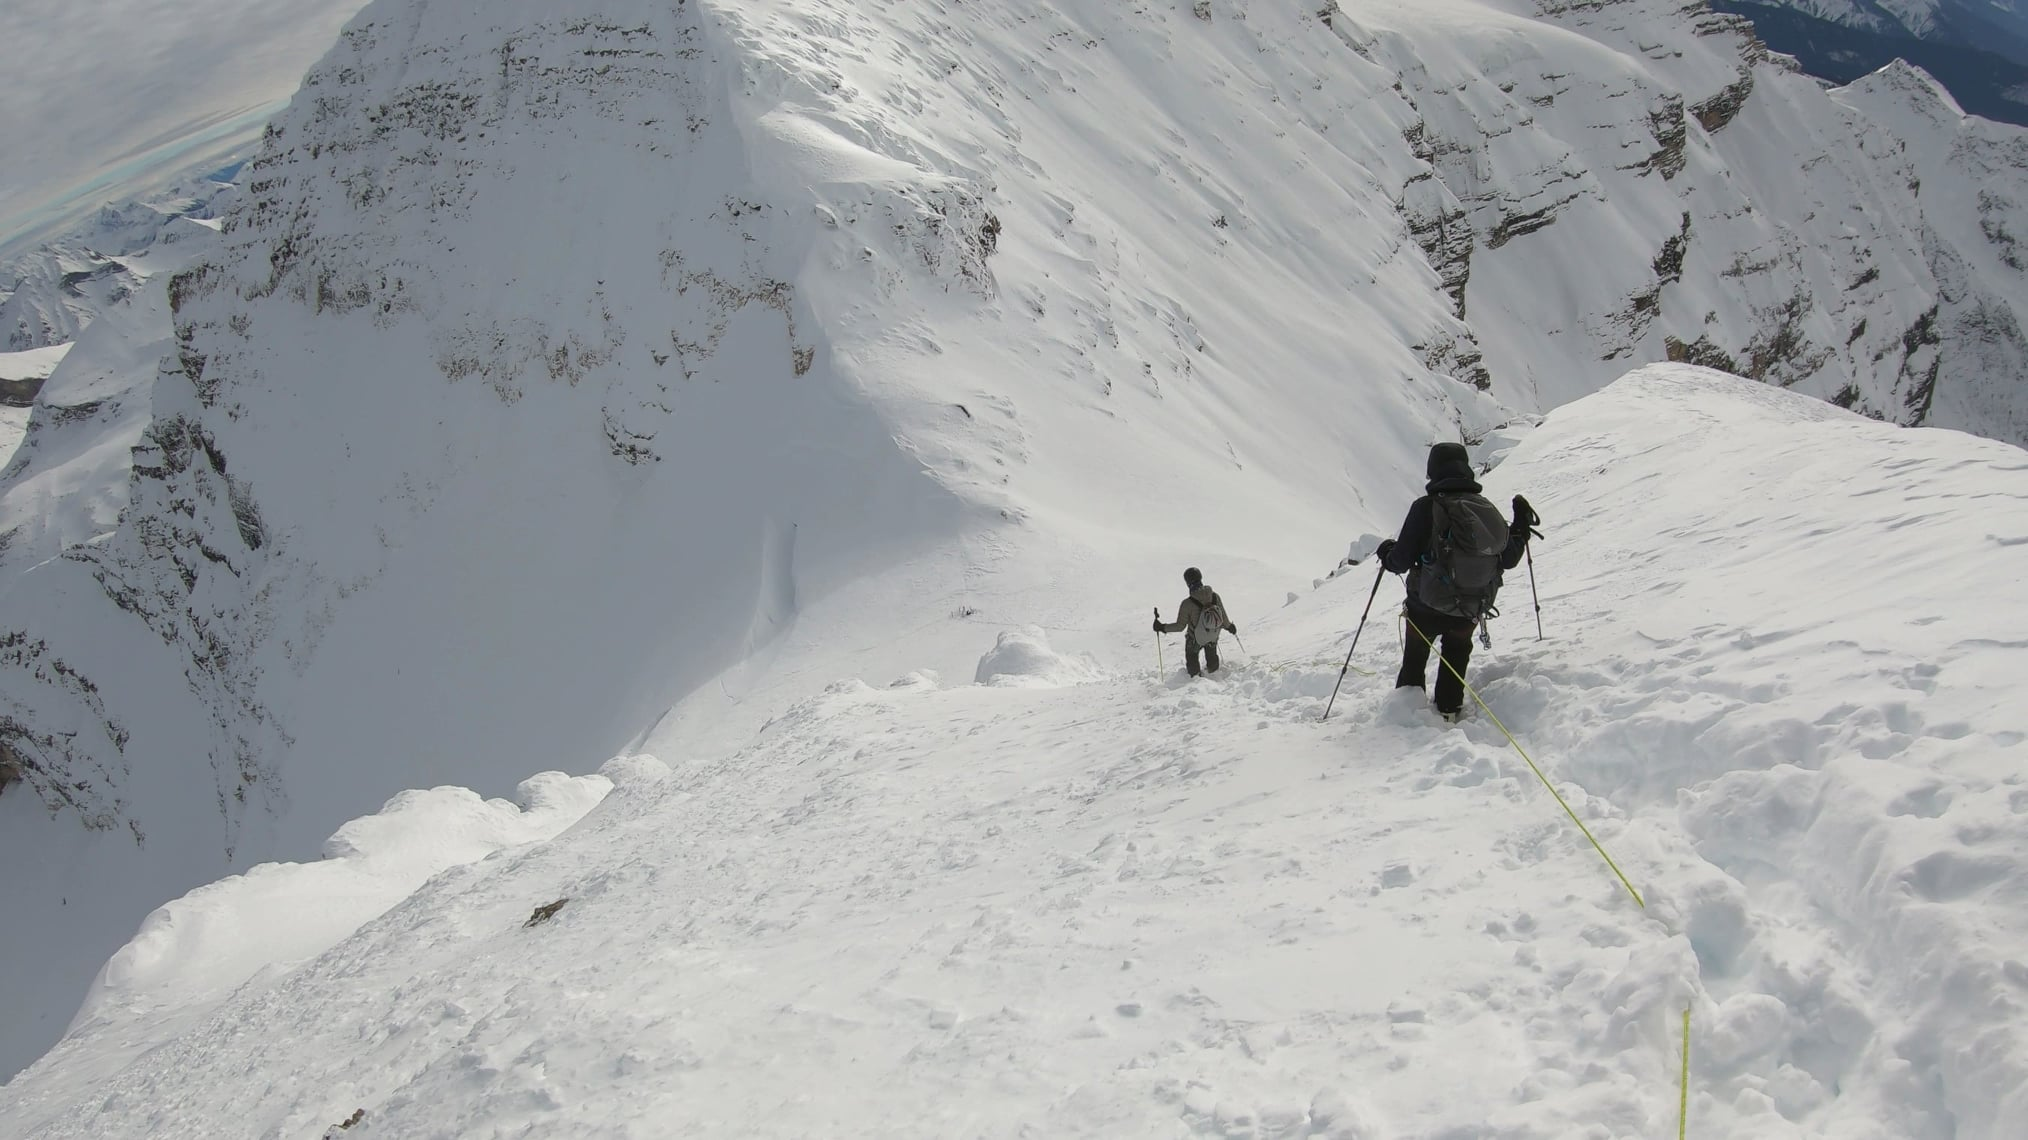
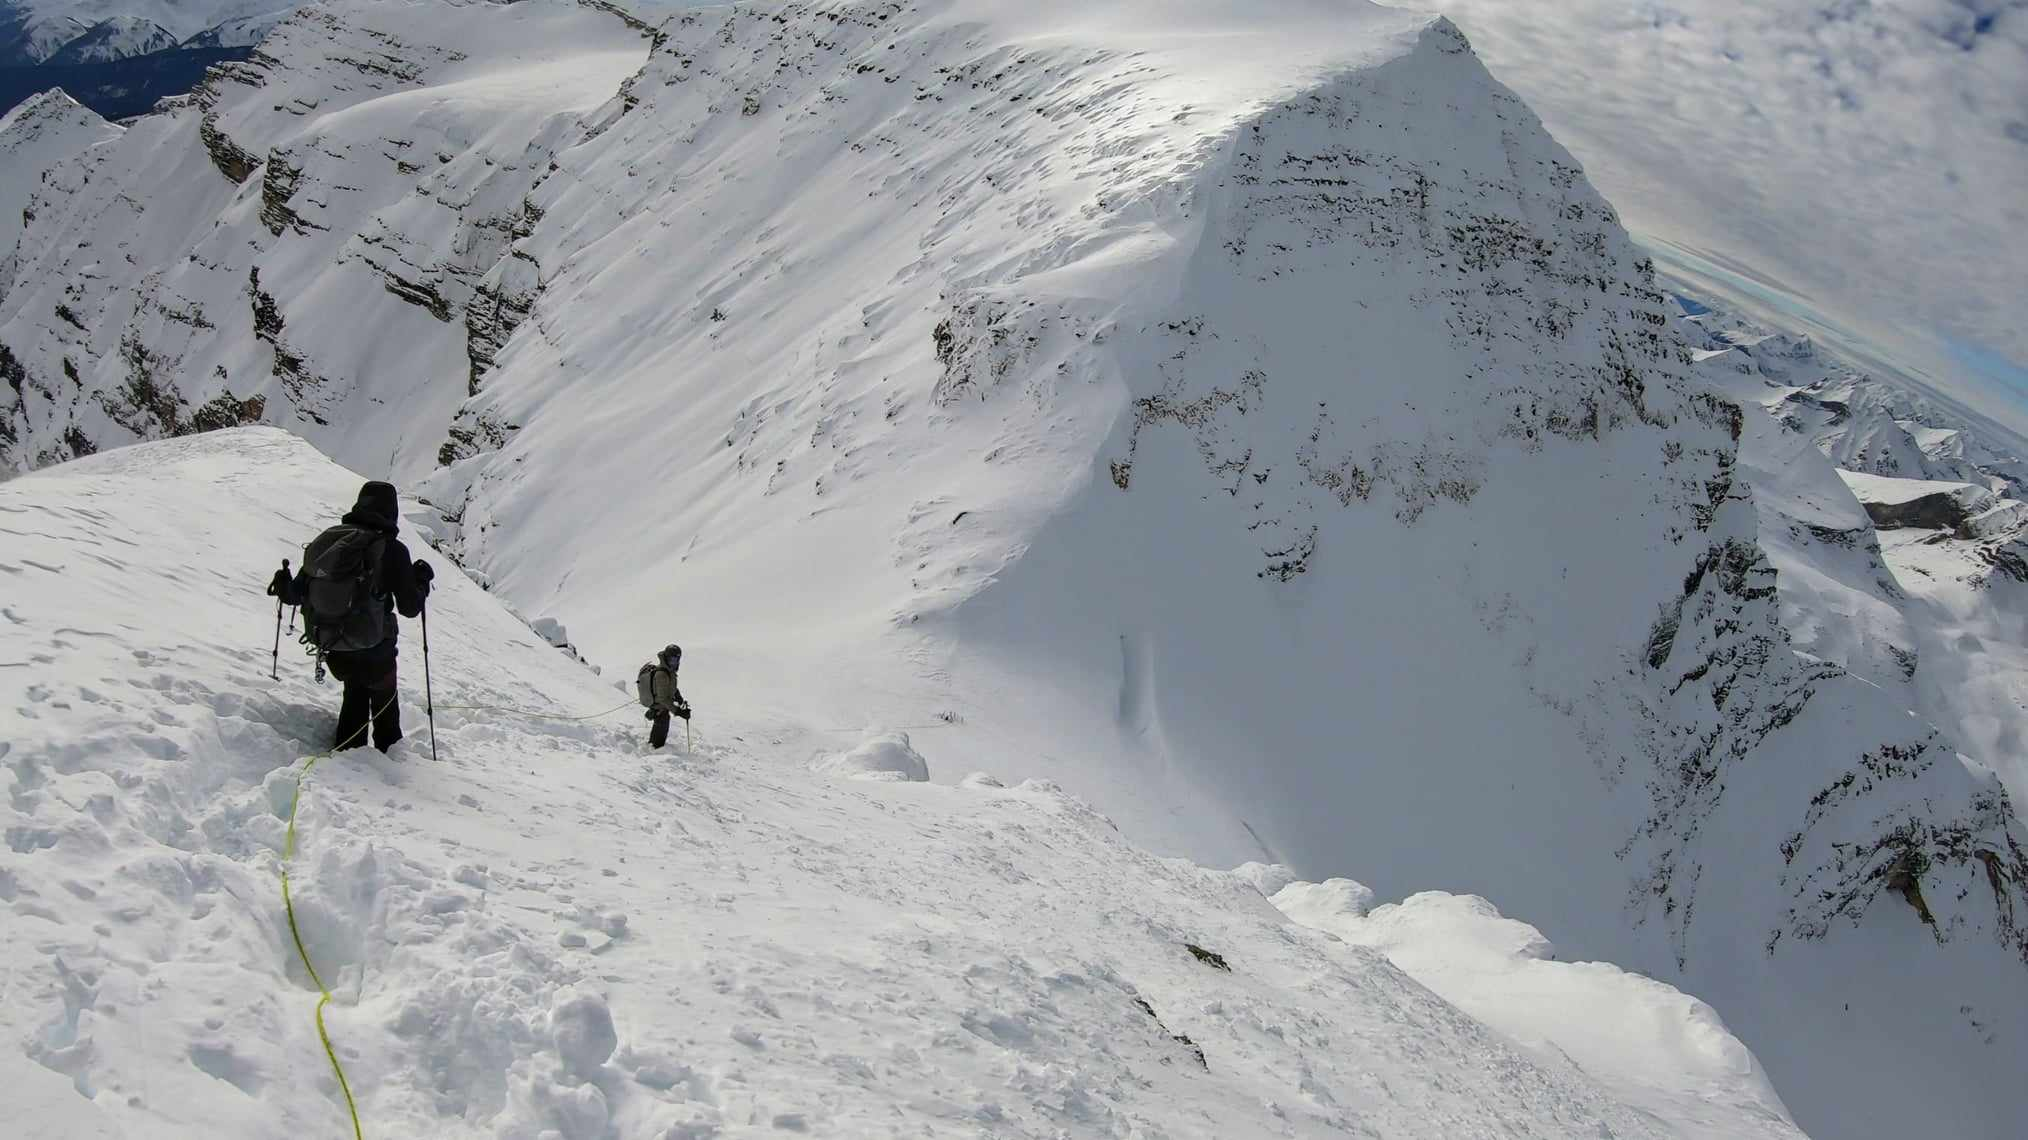
Updated mountains, about and optimized 3d rendering a little

diff --git a/index.html b/index.html
@@ -159,7 +159,7 @@
         <div class="col-lg-6">
 
           <div class="progress">
-            <p><span class="skill">Python <i class="val"> ~2 Years</i></span> Libraries: Tensorflow | Keras | Pandas | Jax | Numpy | OpenCV </p>
+            <p><span class="skill">Python <i class="val"> ~2 Years</i></span> Libraries: Pytorch | Pandas | Jax | Numpy | OpenCV </p>
             <div class="progress-bar-wrap">
               <div class="progress-bar" role="progressbar" aria-valuenow="60" aria-valuemin="0" aria-valuemax="100"></div>
             </div>
@@ -195,7 +195,7 @@
           <br>
 
           <div class="progress">
-            <p><span class="skill">Machine Learning <i class="val"> ~1 Year</i></span> Tensorflow | Keras | Jax | OpenCV | Mlflow </p>
+            <p><span class="skill">Machine Learning <i class="val"> ~1 Year</i></span> Pytorch | Tensorflow | Jax | OpenCV | Mlflow | CUDA </p>
             <div class="progress-bar-wrap">
               <div class="progress-bar" role="progressbar" aria-valuenow="20" aria-valuemin="0" aria-valuemax="100"></div>
             </div>
@@ -231,7 +231,7 @@
           <br>
 
           <div class="progress">
-            <p><span class="skill">Applications <i class="val"> ~1 Year</i></span> QGIS </p>
+            <p><span class="skill">Applications <i class="val"> ~1 Year</i></span> QGIS, Postman </p>
             <div class="progress-bar-wrap">
               <div class="progress-bar" role="progressbar" aria-valuenow="20" aria-valuemin="0" aria-valuemax="100"></div>
             </div>
@@ -368,7 +368,7 @@
 
         <div class="col-lg-3 col-md-6 mt-5 mt-lg-0">
           <div class="count-box">
-            <a href="#hiking"><i class="icofont-hill"></i></a>
+            <a href="#hiking" target="_blank"><i class="icofont-hill"></i></a>
             <span data-toggle="counter-up" id="mountain-count" >50</span>
             <p>Mountains Summited</p>
           </div>
@@ -383,7 +383,7 @@
       <div class="section-title">
         <h2>Adventures</h2>
       </div>
-      <a href="#hiking">Some of the Mountians I have summited...</a>
+      <a href="#hiking" target="_blank">Some of the Mountians I have summited...</a>
       <br> 
 
       <!-- ======= Publication ======= -->
@@ -1185,6 +1185,14 @@
 
       <!--The div element for the map -->
       <div id="map"></div>
+
+      <br>
+      <div class="section-title">
+        <h2>Androlumbia</h2>
+        <p>Summit push above the Columbia Icefield</p>
+      </div>
+      <img src="assets/img/mountain4.jpeg" class="img-contact" alt="">
+      <br>
 
       <br>
       <div class="section-title">

diff --git a/js/hypercube.js b/js/hypercube.js
@@ -52,7 +52,7 @@ function hc_init(container, len, height, distance){
 
     hc_camera.lookAt(new THREE.Vector3(0, 0, 0));
 
-    hc_renderer = new THREE.WebGLRenderer({alpha: true});
+    hc_renderer = new THREE.WebGLRenderer({alpha: true, precision: "lowp"});
     
     hc_renderer.setSize(len, height);
     container.appendChild(hc_renderer.domElement);
@@ -66,10 +66,15 @@ function render_hypercube(container, len, height, hc_defaultRotation, distance, 
 
     console.log("Hypercube", len, height, hc_defaultRotation, distance, hc_defaultAngle);
 
+    const fps = 60;
     hc_init(container, len, height, distance);
 
     function animate(){
-        requestAnimationFrame( animate );
+
+        // Animate at a specific frame rate
+        setTimeout(() => {
+            requestAnimationFrame( animate );
+        }, 1000 / fps);
         
         switch (hc_defaultRotation) {
             case "xy":

diff --git a/js/hypermesh.js b/js/hypermesh.js
@@ -69,7 +69,7 @@ function init(container, len, height, distance){
 
     camera.lookAt(new THREE.Vector3(0, 0, 0));
 
-    renderer = new THREE.WebGLRenderer({alpha: true});
+    renderer = new THREE.WebGLRenderer({alpha: true, precision: "lowp"});
     
     renderer.setSize(len, height);
     container.appendChild(renderer.domElement);
@@ -83,10 +83,15 @@ function render_hypermesh(container, len, height, defaultRotation, distance, def
 
     console.log("Hypermesh", len, height, defaultRotation, distance, defaultAngle);
 
+    const fps = 60;
     init(container, len, height, distance);
 
     function animate(){
-        requestAnimationFrame( animate );
+        
+        // Animate at a specific frame rate
+        setTimeout(() => {
+            requestAnimationFrame( animate );
+        }, 1000 / fps);
         
         switch (defaultRotation) {
             case "xy":

diff --git a/js/map.js b/js/map.js
@@ -653,6 +653,22 @@ function mapData(){
         },
       elevation_m: 2972
       },
+    mount_galatea_ab:{
+      name: "Mount Galatea", 
+      coords: {
+          lat: 50.839622, 
+          lng: -115.273452
+        },
+      elevation_m: 3185
+      },
+    mount_jellicoe_ab:{
+      name: "Mount Jellicoe", 
+      coords: {
+          lat: 50.714495,
+          lng: -115.290530
+        },
+      elevation_m: 3075
+      },
   }
 
   return dataset; 
